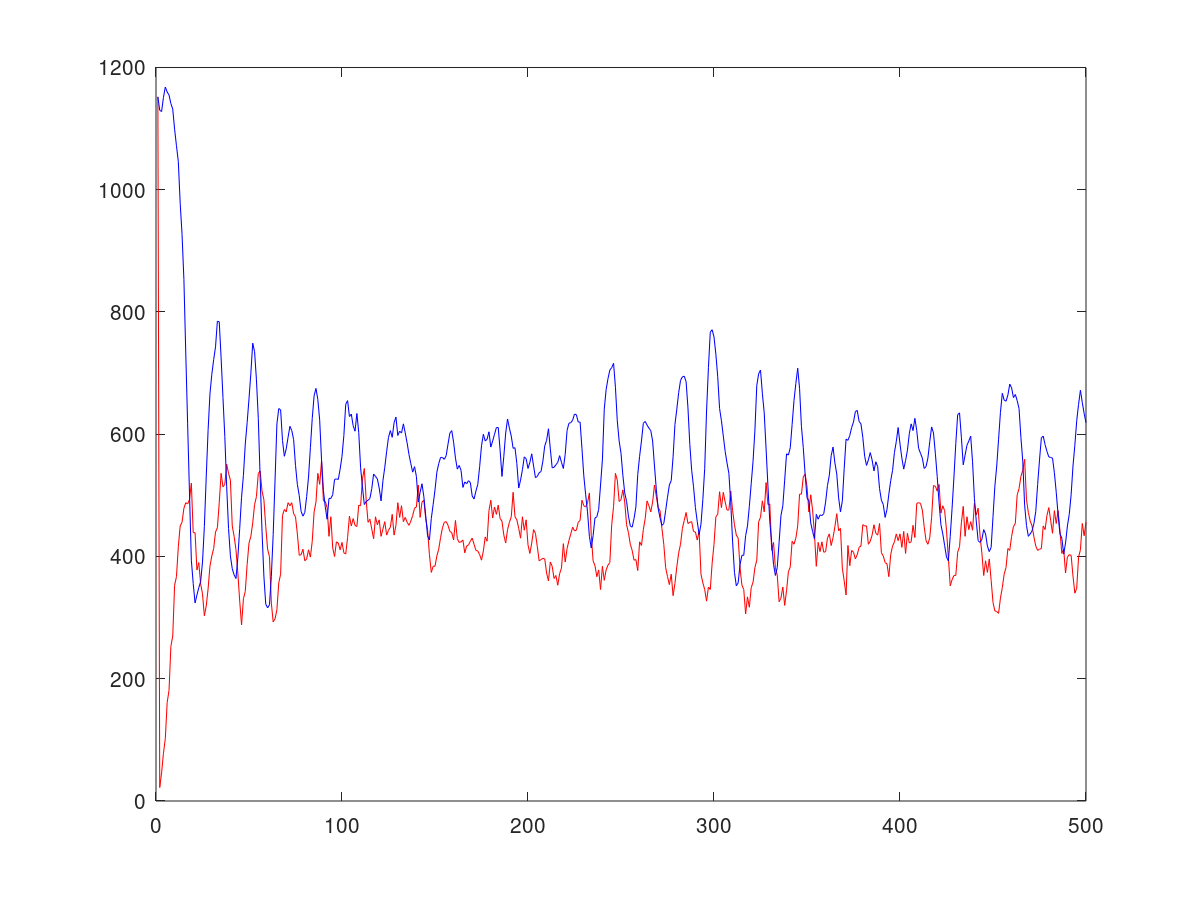
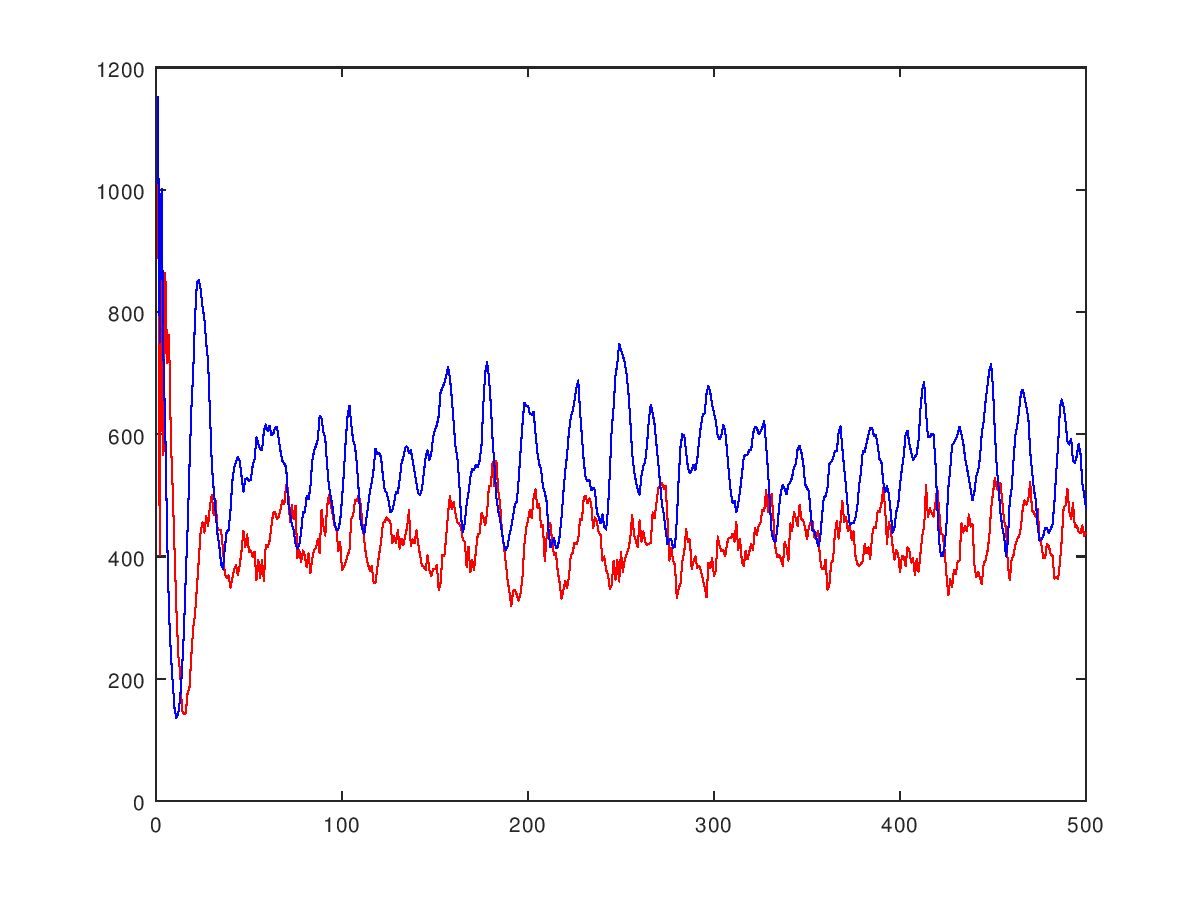
Change spawn style +
Now using modulo operator to get a more even distribution on inital spawn

diff --git a/results/ver_4_results.m b/results/ver_4_results.m
@@ -1,0 +1,7 @@
+pred=[
+1152,402,895,566,864,717,763,590,508,406,310,237,210,148,142,144,177,186,238,283,306,350,394,441,456,439,466,450,483,501,468,491,447,443,443,412,371,365,369,349,364,379,386,370,385,410,442,415,436,408,410,399,408,361,394,365,394,360,419,415,425,448,472,472,462,465,478,492,486,517,510,457,484,461,483,397,411,391,410,401,383,405,373,397,411,414,429,405,476,450,434,482,501,484,469,450,445,409,424,378,383,391,402,410,462,468,492,491,500,486,453,425,400,387,376,385,357,357,382,404,424,455,457,464,460,457,422,434,422,443,413,429,418,434,448,476,417,428,422,443,420,401,385,383,378,402,377,368,380,379,386,345,357,403,400,432,470,499,478,489,471,456,454,447,427,424,383,416,374,394,378,410,436,438,471,464,451,472,516,515,555,515,557,507,487,440,418,391,362,342,319,344,345,337,328,340,365,418,446,460,476,463,496,510,480,486,449,451,393,432,448,455,424,402,406,375,357,331,345,360,348,366,402,406,423,420,428,462,460,497,499,487,495,486,446,464,457,439,435,393,400,378,370,347,353,393,362,395,359,407,375,394,404,412,430,468,436,425,416,459,424,441,424,419,421,422,472,463,486,511,516,521,511,516,461,393,414,394,386,332,348,356,393,407,445,423,428,379,392,400,381,385,376,363,349,333,390,381,397,368,378,433,417,409,411,400,421,431,430,437,424,457,411,429,391,385,409,396,408,420,411,447,435,450,456,476,474,509,473,499,502,459,415,399,402,396,385,424,415,393,454,442,473,462,450,485,461,459,447,428,448,457,457,431,434,442,396,379,379,395,346,353,390,394,438,458,429,456,491,456,465,441,453,427,441,402,388,385,388,392,421,405,415,396,434,449,447,475,473,486,513,479,421,456,443,418,395,410,404,374,400,400,384,415,410,390,398,369,396,375,405,435,449,517,464,479,471,465,486,513,478,437,436,409,369,337,363,350,378,371,392,393,454,439,450,441,469,449,453,386,366,375,365,355,389,394,408,432,479,504,528,512,508,520,490,457,447,386,361,395,402,418,429,433,447,479,492,485,494,522,475,472,464,478,431,420,398,397,421,417,404,401,364,367,363,390,429,481,483,511,474,461,487,448,451,441,438,451,434,439,];
+prey=[
+1152,750,1002,725,605,431,307,240,193,150,136,144,169,215,277,368,447,548,641,702,792,849,852,837,809,789,749,719,635,550,510,475,438,418,388,380,414,441,443,474,522,545,555,563,556,531,506,527,528,524,526,549,559,595,584,576,574,605,616,605,614,599,600,611,612,592,571,556,552,546,488,474,453,443,421,413,418,439,472,472,499,494,513,557,573,581,592,630,626,604,593,549,514,497,479,455,444,444,458,494,537,591,630,647,615,590,580,551,506,458,445,437,460,482,507,521,543,576,567,570,562,531,508,504,492,472,475,487,506,504,526,552,563,578,580,570,574,557,539,520,503,501,510,537,563,574,558,568,596,608,615,630,669,676,684,695,710,693,660,620,580,562,523,464,440,455,486,504,529,544,542,550,546,557,582,650,701,718,693,649,589,548,496,475,460,439,420,411,416,435,448,466,486,490,527,572,615,652,646,647,633,632,637,602,571,551,543,515,505,490,444,415,422,430,414,415,433,463,504,540,566,604,628,638,655,676,688,636,596,554,529,523,525,508,513,509,473,464,454,469,448,444,478,537,609,643,695,715,748,738,728,718,698,667,623,568,541,523,509,501,532,548,555,584,625,648,635,617,585,554,520,485,469,443,420,428,429,414,416,459,528,580,600,598,571,545,536,541,550,541,559,590,615,632,634,667,679,668,648,635,621,597,592,599,615,606,573,537,505,488,491,472,486,507,534,563,566,567,574,575,601,612,611,601,604,611,622,582,542,489,438,428,423,445,481,507,517,511,502,518,521,530,546,551,577,581,570,552,518,512,507,470,442,441,430,417,427,464,496,499,512,551,555,560,573,572,603,613,577,544,514,476,452,454,455,463,480,516,538,573,571,585,599,610,611,597,599,582,559,555,521,505,515,502,473,439,447,473,484,518,543,565,599,606,585,571,558,563,568,591,641,674,685,636,596,595,601,599,558,486,425,401,401,417,454,513,543,582,586,592,600,612,600,586,561,545,528,509,492,506,532,540,562,603,621,654,679,704,715,676,603,547,513,471,448,432,400,426,491,511,556,598,614,638,667,673,659,644,626,571,540,509,493,449,427,427,433,447,446,438,445,452,488,538,583,644,657,644,620,588,583,593,556,553,564,584,570,520,502,479,];
+plot(pred,'r');
+hold on;
+plot(prey,'b');
